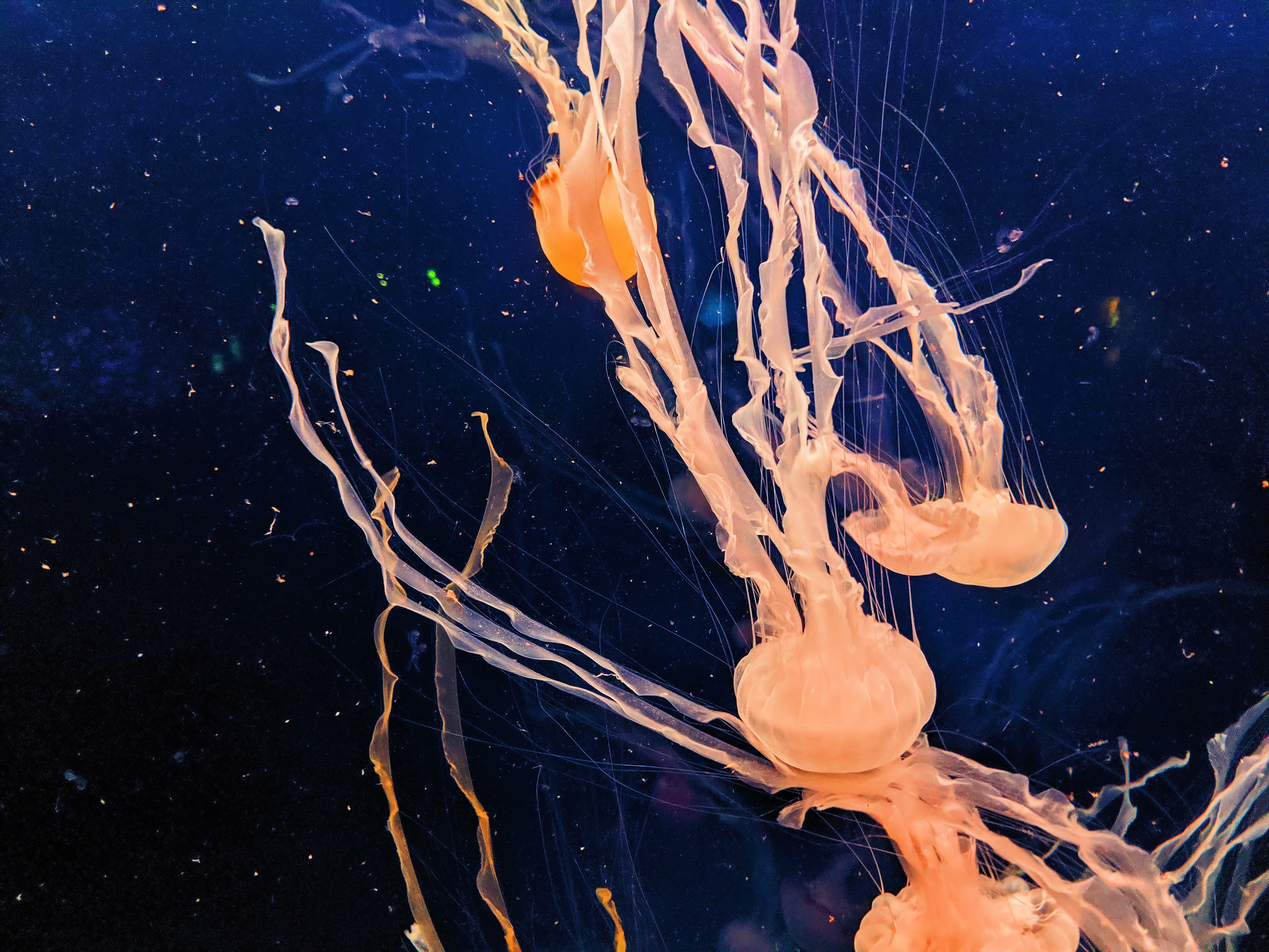
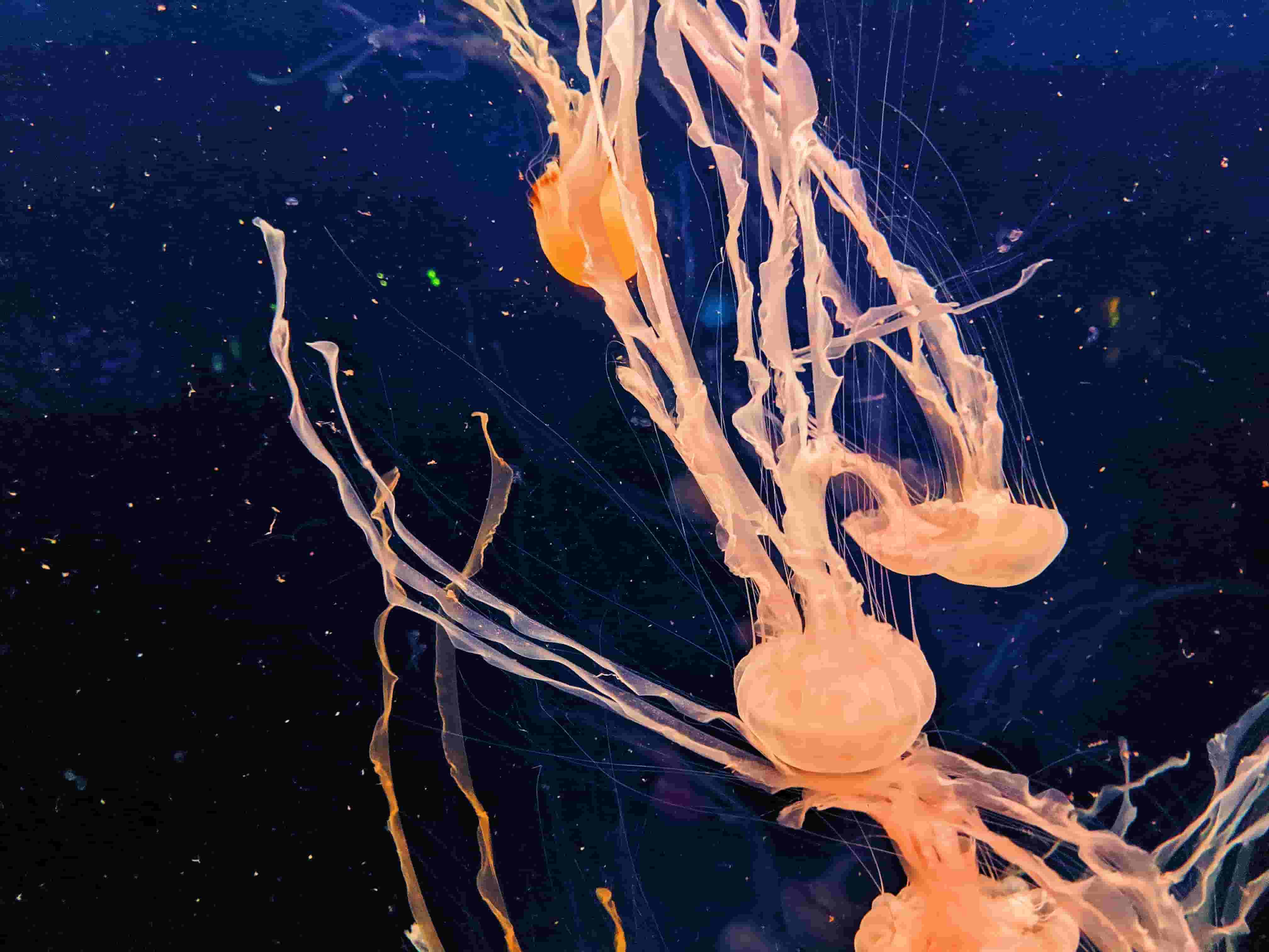
optimized images, added trasitions to dropdowns

diff --git a/src/components/player/player.component.jsx b/src/components/player/player.component.jsx
@@ -53,6 +53,7 @@ import { toggleQueueHidden } from "../../redux/queue/queue.actions";
 import RangeSlider from "../range-slider/range-slider.component";
 
 import "./player.styles.scss";
+import { CSSTransition, TransitionGroup } from "react-transition-group";
 
 class Player extends React.Component {
   componentDidMount() {
@@ -213,11 +214,11 @@ class Player extends React.Component {
                 handleClick={this.playTrack}
               />
             ) : (
-              <PauseButton
-                isDisabled={isDisabled}
-                handleClick={this.pauseTrack}
-              />
-            )}
+                <PauseButton
+                  isDisabled={isDisabled}
+                  handleClick={this.pauseTrack}
+                />
+              )}
 
             <SkipNextButton
               isDisabled={isDisabled || !queueItems}
@@ -230,16 +231,17 @@ class Player extends React.Component {
               isRepeated={isRepeated}
               handleClick={this.toggleRepeatTrack}
             />
-
-            {isQueueHidden ? null : <QueueDropup />}
+            <TransitionGroup>
+              {isQueueHidden ? null : <CSSTransition classNames='scale-up' timeout={300}><QueueDropup /></CSSTransition>}
+            </TransitionGroup>
 
             <QueueButton handleClick={toggleQueueHidden} />
             <Fragment>
               {isMuted ? (
                 <MutedButton handleClick={this.toggleMuteTrack} />
               ) : (
-                <UnMutedButton handleClick={this.toggleMuteTrack} />
-              )}
+                  <UnMutedButton handleClick={this.toggleMuteTrack} />
+                )}
 
               <RangeSlider
                 min={0}

diff --git a/src/components/user-info/user-info.component.jsx b/src/components/user-info/user-info.component.jsx
@@ -1,5 +1,6 @@
 import React from "react";
 import { connect } from "react-redux";
+import { CSSTransition, TransitionGroup } from "react-transition-group";
 
 import { createStructuredSelector } from "reselect";
 import useToggle from "../../hooks/useToggle";
@@ -25,12 +26,16 @@ const UserInfo = ({ currentUser }) => {
       <div className="user-name" onClick={toggleDropdownHidden}>
         {displayName}
       </div>
-      {isDropdownHidden ? null : (
-        <UserInfoDropdown
-          toggleHidden={toggleDropdownHidden}
-          userName={currentUser.displayName}
-        />
-      )}
+      <TransitionGroup>
+        {isDropdownHidden ? null : (
+          <CSSTransition classNames='scale' timeout={300}>
+            <UserInfoDropdown
+              toggleHidden={toggleDropdownHidden}
+              userName={currentUser.displayName}
+            />
+          </CSSTransition>
+        )}
+      </TransitionGroup>
     </div>
   );
 };

diff --git a/src/components/user-info-dropdown/user-info-dropdown.styles.scss b/src/components/user-info-dropdown/user-info-dropdown.styles.scss
@@ -1,13 +1,12 @@
 .user-info-dropdown {
   width: 130px;
   position: absolute;
-  top: 60px;
-  right: 10px;
+  top: 45px;
+  right: 0;
   background-color: white;
   border-radius: 5px;
   box-shadow: 0 5px 10px rgba(0, 0, 0, 0.15);
   text-align: center;
-  z-index: 10;
   overflow: hidden;
 
   .name {
@@ -26,4 +25,25 @@
       background-color: rgba(248, 248, 248, 0.867);
     }
   }
+}
+
+.scale-enter {
+  opacity: 0;
+  top: 0;
+  transform: scale(0.1);
+}
+.scale-enter-active {
+  opacity: 1;
+  top: 45px;
+  transform: scale(1);
+  transition: opacity 200ms, transform 200ms, top 200ms;
+}
+.scale-exit {
+  opacity: 1;
+}
+.scale-exit-active {
+  opacity: 0;
+  top: 0;
+  transform: scale(0.3);
+  transition: opacity 100ms, transform 200ms, top 200ms;
 }

diff --git a/src/components/player/player.styles.scss b/src/components/player/player.styles.scss
@@ -30,14 +30,16 @@ $primary-color: #0d0c12;
   }
 
   .controles {
-    display: flex;
-    justify-content: space-between;
+    width: 100%;
+    display: grid;
+    grid-template-columns: repeat(3, 1fr);
     align-items: center;
 
     svg {
       cursor: pointer;
     }
     .currently-playing {
+      justify-self: baseline;
       h3 {
         margin: 0;
         padding: 0;
@@ -47,8 +49,14 @@ $primary-color: #0d0c12;
       }
     }
 
+    .buttons-primary{
+      justify-self: center;
+    }
+
     .buttons-secondary {
-      width: 15%;
+      width: 40%;
+      justify-self: end;
+      // width: 15%;
       display: flex;
       align-items: center;
 

diff --git a/src/components/queue-dropup/queue-dropup.styles.scss b/src/components/queue-dropup/queue-dropup.styles.scss
@@ -20,3 +20,24 @@
     text-align: center;
   }
 }
+
+.scale-up-enter {
+  opacity: 0;
+  bottom: 0;
+  transform: scale(0.1);
+}
+.scale-up-enter-active {
+  opacity: 1;
+  bottom: 60px;
+  transform: scale(1);
+  transition: opacity 200ms, transform 200ms, bottom 200ms;
+}
+.scale-up-exit {
+  opacity: 1;
+}
+.scale-up-exit-active {
+  opacity: 0;
+  bottom: 0;
+  transform: scale(0.3);
+  transition: opacity 100ms, transform 200ms, bottom 200ms;
+}

diff --git a/src/components/create-playlist-dialog/create-playlist-dialog.styles.scss b/src/components/create-playlist-dialog/create-playlist-dialog.styles.scss
@@ -79,6 +79,7 @@
     .btn-primary {
       background-color: #2d3347;
       color: #fff;
+      border: 1px solid #2d3347;
     }
     .btn-secondary {
       background-color: #fff;
@@ -92,6 +93,7 @@
 
     .btn-disabled {
       background-color: #d8d5eb;
+      border-color: #d8d5eb;
 
       &:hover {
         cursor: not-allowed;

diff --git a/src/components/user-info/user-info.styles.scss b/src/components/user-info/user-info.styles.scss
@@ -1,4 +1,6 @@
 .user-info {
+  position: relative;
+  z-index: 10;
   .user-name {
     width: 45px;
     height: 45px;
